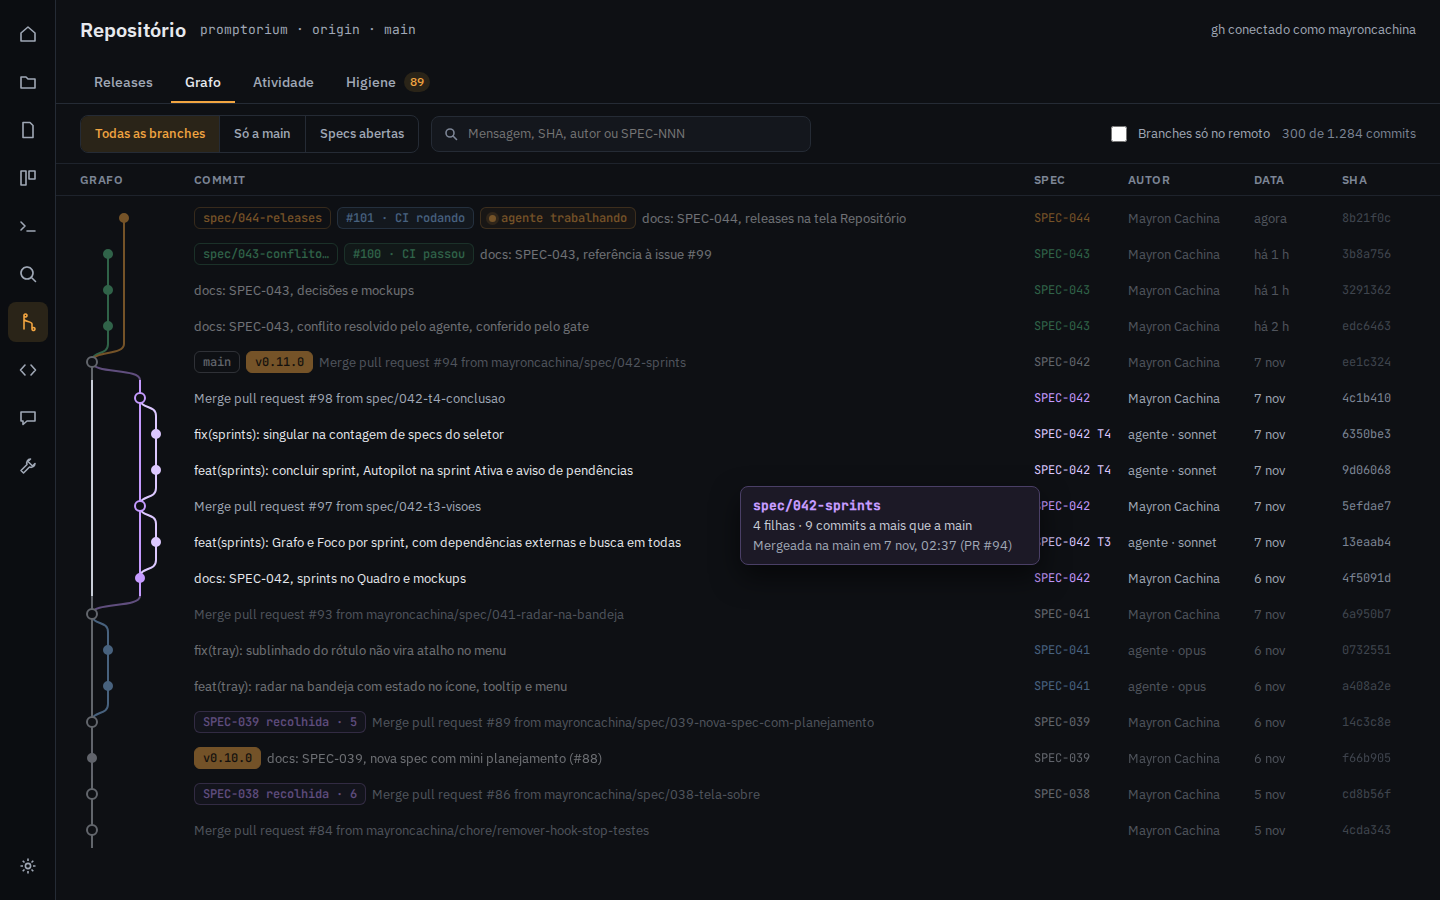
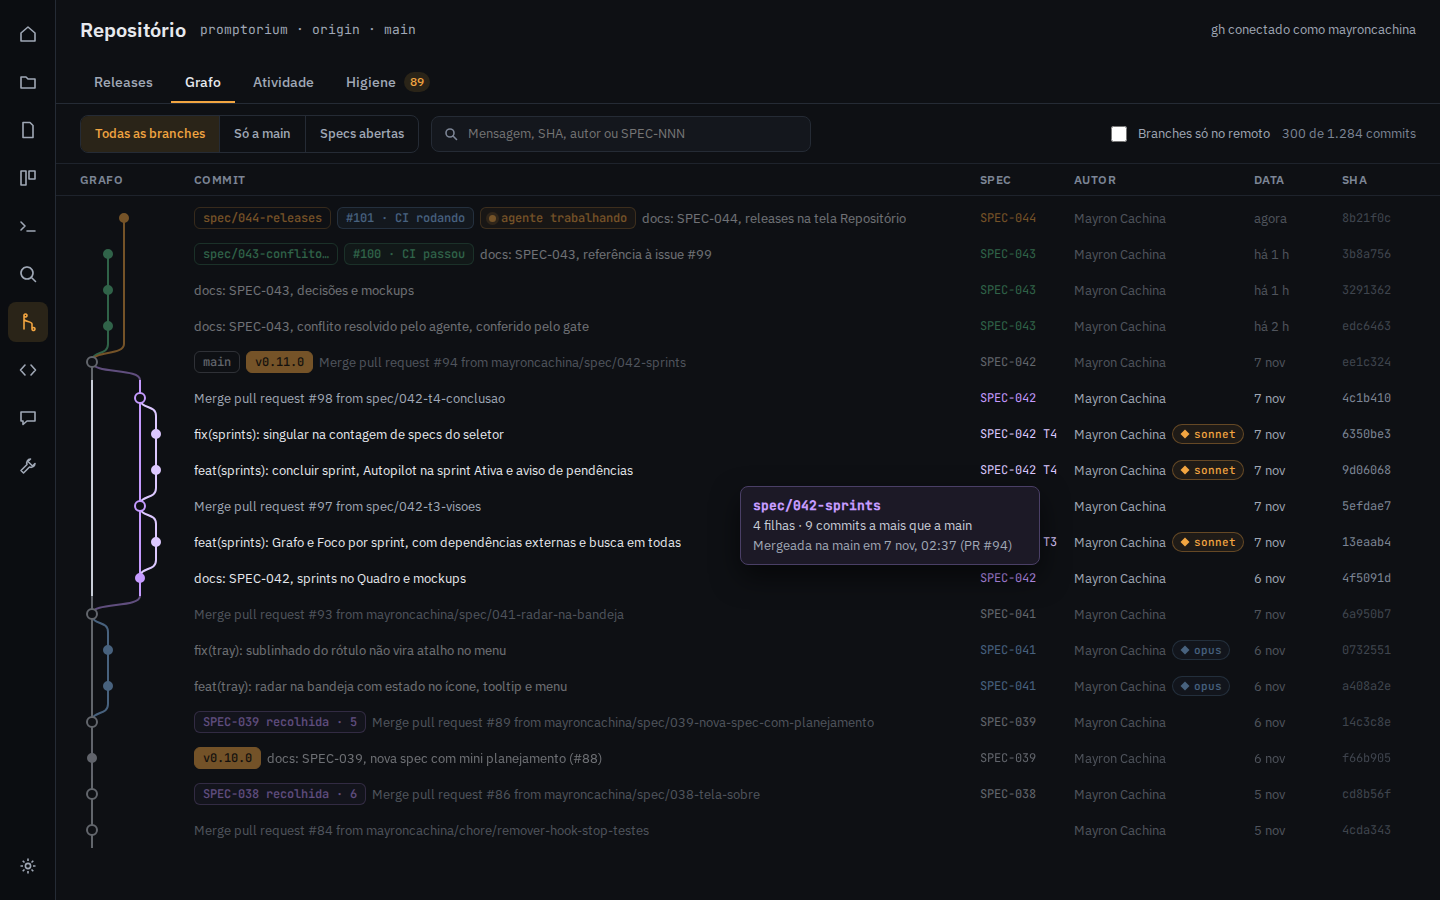
docs: SPEC-045, etiqueta do modelo no lugar do autor agente

diff --git a/docs/specs/SPEC-045-grafo-do-repositorio.md b/docs/specs/SPEC-045-grafo-do-repositorio.md
@@ -1,7 +1,7 @@
 ---
 id: SPEC-045
 status: rascunho
-depende-de: SPEC-044, SPEC-032, SPEC-042
+depende-de: SPEC-044, SPEC-032, SPEC-042, SPEC-048
 issue: 103
 ---
 
@@ -19,7 +19,7 @@ Mockup: [canvas do Claude Design](https://claude.ai/artifact/HcFbQPFWcM9ZWttmCgc
 
 | Captura | O que mostra | Requisitos |
 |---|---|---|
-| `1-grafo.png` | Grafo com a main, as specs abertas, uma spec pai com as filhas, tags e PRs com o CI | R1, R2, R3, R4, R8 |
+| `1-grafo.png` | Grafo com a main, as specs abertas, uma spec pai com as filhas, tags, PRs com o CI e a etiqueta do modelo (o tooltip está em `docs/mockups/spec-048/3-grafo-etiqueta.png`) | R1, R2, R3, R4, R8, R9 |
 | `2-commit.png` | Spec pai recolhida e o painel do commit selecionado | R3, R5, R6 |
 
 ## Requisitos
@@ -46,6 +46,7 @@ Mockup: [canvas do Claude Design](https://claude.ai/artifact/HcFbQPFWcM9ZWttmCgc
   - um botão que mostra ou esconde as branches remotas que não têm cópia local.
 - R7 · A aba deve carregar 300 commits por vez, em ordem topológica, e mais 300 ao rolar até o fim. As raias são calculadas por partes, sem recalcular o que já está na tela. A lista desenha só as linhas visíveis. A aba atualiza quando HEAD, as refs ou as tags mudam, com o mesmo vigia de arquivos do Código, sem perder o commit selecionado nem a rolagem.
 - R8 · Ao passar o ponteiro sobre uma raia, ela fica em destaque e as outras esmaecem, e um balão diz o nome da branch, quantos commits ela tem a mais que a branch padrão e, se mergeada, quando.
+- R9 · Com a marcação da SPEC-048 ligada, o commit de agente deve mostrar uma etiqueta com o modelo (`sonnet`, `opus`, `app`) ao lado do autor. O tooltip da etiqueta mostra a origem ("SPEC-042 R2") e o texto exato da linha `Promptorium-Agente`. Sem a marca, só o autor aparece.
 
 ## Fora do escopo
 
@@ -102,7 +103,8 @@ Mockup: [canvas do Claude Design](https://claude.ai/artifact/HcFbQPFWcM9ZWttmCgc
 - [ ] Os commits de spec têm a cor do Quadro e a etiqueta SPEC-NNN [R2] verificar: flutter test test/features/repository/spec_of_commit_test.dart
 - [ ] As filhas ficam junto da pai, que recolhe e expande; as mergeadas começam recolhidas [R3] verificar: flutter test test/features/repository/lane_layout_test.dart
 - [ ] Tags, PRs com CI e agente trabalhando aparecem como etiquetas que levam a Releases e ao Review [R4] verificar: flutter test test/features/repository/graph_tab_test.dart
+- [ ] Commits marcados pela SPEC-048 mostram a etiqueta do modelo com o tooltip da origem [R9] verificar: flutter test test/features/repository/graph_tab_test.dart
 - [ ] O painel mostra pais, refs, arquivos com +/− e os links da spec e do PR [R5] verificar: flutter test test/features/repository/graph_tab_test.dart
 - [ ] Filtros e busca funcionam, e a aba atualiza sem perder seleção e rolagem [R6, R7] verificar: flutter test test/features/repository/graph_tab_test.dart
 - [ ] O grafo do próprio Promptorium (mais de 1.000 commits) rola sem travar e mostra a SPEC-042 com as quatro filhas [R3, R7] verificar: manual (abrir o Promptorium no app)
-- [ ] O projeto compila e a análise estática passa [R1–R8] verificar: flutter analyze
+- [ ] O projeto compila e a análise estática passa [R1–R9] verificar: flutter analyze
